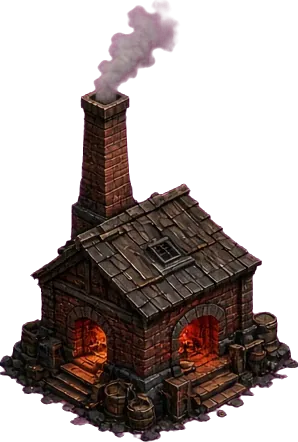
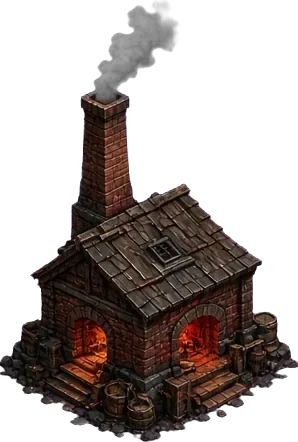
Barut Çağı art 2: şehir katmanı anında (önbellek), kale/savaş eğitimi (11 dil), siege.js tembel + img/sg silindi, beceri cut-in, h1–h12 portreler, dökümhane duman rengi (sw sf-b39-3-art)

Changed region(s): [[0.302, 0.0, 0.5738, 0.2353], [0.2416, 0.9412, 0.302, 0.9706]]

diff --git a/game.js b/game.js
@@ -3,7 +3,7 @@ import * as THREE from './lib/three.module.js';
 import * as L from './logic.js';
 import {t as tx,tl,lang,LANGS,setLang,localizeData,applyDom,locale,RTL} from './i18n.js';
 import {openGuide} from './guide.js';
-import {playSiege} from './siege.js';
+const playSiege=o=>import('./siege.js').then(m=>m.playSiege(o));
 import {openWorld as openWorldView} from './world.js';
 localizeData(L);applyDom();for(const id of ['bClan','bChat']){const e=document.getElementById(id);if(!e)continue;const m=e.textContent.trim().match(/^([\p{Extended_Pictographic}\uFE0F\u200D]+)\s*(.+)$/u);if(m){e.title=m[2];e.innerHTML=m[1]+'<span class="lb"> '+m[2]+'</span>'}}const LV=tx('ui.lv'),DEC=(1.5).toLocaleString(locale)[1];
 const {KINDS,RIC,TROOPS,HEROES,TECH,FOES,RARITY,GR}=L;
@@ -521,7 +521,7 @@ function openWork(){sheet(()=>{let h=hdr(tx('ui.isci_atamasi'))+`<div class="car
  const ks=Object.keys(S.g).filter(k=>L.hasJob(S.g[k].k)).sort((a,b)=>S.g[a].k.localeCompare(S.g[b].k));
  for(const k of ks){const b=S.g[k],T=KINDS[b.k];const[i,j]=L.unkey(k);h+=`<div class="card" ${b.fog?'style="opacity:.5"':''}><div class="ic">${T.ic}</div><div class="mid"><div class="nm">${T.n} ${LV}${b.lv} · ${L.JOB[b.k]} ${b.w||0}/${L.maxW(b.lv)}</div><div class="sub">${b.fog?tx('ui.sisli'):T.res?L.rate(S,k).toFixed(1).replace('.',DEC)+' '+RIC[T.res]+'/dk':tx('ui.egitim')+((b.w||0)*25)+'%'}</div></div><button class="btn sm r" data-a="w" data-v="${i}:${j}:-1">−</button><button class="btn sm" data-a="w" data-v="${i}:${j}:1">+</button></div>`}
  return h})}
-const port=(h,st,big)=>`<div class="port r${h.r}" style="${big?'width:84px;height:84px':''}"><img src="img/cap_${h.img}.webp" loading="lazy" alt="${h.n}">${st?`<b class="lv">${st.lv||1}</b>`:''}<small>${'★'.repeat(st?st.star:0)}</small></div>`;
+const port=(h,st,big)=>`<div class="port r${h.r}" style="${big?'width:84px;height:84px':''}"><img src="${big?hPic(h.img):'img/cap_'+h.img+'.webp'}" loading="lazy" alt="${h.n}">${st?`<b class="lv">${st.lv||1}</b>`:''}<small>${'★'.repeat(st?st.star:0)}</small></div>`;
 // kaptan kırmızı noktası: çubuktaki nokta ile sayfa içi işaretler aynı nedenlerden hesaplanır
 function heroLvQ(){const q=L.QUESTS[S.q];return q&&q.go==='heroes'&&/Sv\d/.test(q.t)&&q.f(S)<q.n?q.n:0}
 function heroBest(){const ids=Object.keys(S.heroes);if(!ids.length)return null;const tm=L.team(S).map(h=>h.id);return ids.filter(id=>S.heroes[id].lv<L.heroCap(S.heroes[id])).sort((a,b)=>S.heroes[b].lv-S.heroes[a].lv||tm.indexOf(b)-tm.indexOf(a))[0]||null}
@@ -644,13 +644,13 @@ function goIsland(id){if(resErr(L.switchIsland(S,id)))return;closeSheet();for(co
 // ---------- SAVAŞ ----------
 function pveCheck(kind,stage,rw,prog){const O=window.__online;if(!O||!O.on||!O.pve)return;O.pve(kind,stage).then(r=>{if(!r||r.ok)return;
    const neg={};for(const k in rw)neg[k]=-rw[k];L.addRes(S,neg);for(const k in S.res)S.res[k]=Math.max(0,S.res[k]);S.gems=Math.max(0,S.gems);S.tickets=Math.max(0,S.tickets||0);if(typeof prog==='function')prog();else if(prog&&S.stage>1)S.stage--;ui();save();toast('⚠ '+tx('ui.pve_rej')+' '+tl(r.err||''))}).catch(()=>{})}
-function battle(stage,camp,cv){closeSheet();const res=cv?cv.res:L.simulate(S,stage,Math.random);const B=cv?(cv.foe||{n:tx('ui.cv_foe'),img:'pirate'}):FOES[L.stageFoe(stage)];const tm=L.team(S);const bt=$('battle');
+function battle(stage,camp,cv){closeSheet();if(window.__art2d&&S.tut===5)S.tut=6;const res=cv?cv.res:L.simulate(S,stage,Math.random);const B=cv?(cv.foe||{n:tx('ui.cv_foe'),img:'pirate'}):FOES[L.stageFoe(stage)];const tm=L.team(S);const bt=$('battle');
  const icons=Object.entries(S.troops).flatMap(([t,n])=>Array(Math.min(4,Math.ceil(n/10))).fill(TROOPS[t].ic));
  const ttl=cv?(cv.ttl||'🏴☠ '+tx('ui.cv_t')):'⛵ '+tx('ui.isl_n',[stage,L.islandName(stage)]);
  bt.innerHTML=bsHtml(ttl,B,fmt(cv?(cv.pw||L.convoyPower(S)):L.stagePower(stage)),tm);
  bt.classList.toggle('reefB',!!(cv&&cv.reef));bt.classList.add('on');SFX.horn();setTimeout(SFX.roar,500);
  battleScene(bt,res,B,tm,icons,()=>finish());
- function finish(){if(cv)return cvFinish();const st0=S.stage,out=L.applyBattle(S,res,stage,now());if(out.rw)pveCheck('stage',stage,out.rw,S.stage>st0);ui();save();syncPeople();const lost=Object.entries(out.lost).filter(([t,n])=>n).map(([t,n])=>`${TROOPS[t].ic}${n}`).join(' ');
+ function finish(){if(S.tut===6)setTimeout(tutCheck,600);if(cv)return cvFinish();const st0=S.stage,out=L.applyBattle(S,res,stage,now());if(out.rw)pveCheck('stage',stage,out.rw,S.stage>st0);ui();save();syncPeople();const lost=Object.entries(out.lost).filter(([t,n])=>n).map(([t,n])=>`${TROOPS[t].ic}${n}`).join(' ');
   if(res.win){SFX.done();vib([30,40,60]);if(camp)camp.g.userData.vis=false,setTimeout(()=>camp.g.userData.vis=true,90000);for(let k=0;k<Math.min(out.saved,3);k++)setTimeout(()=>sendRaft(true),k*700)}else SFX.err();
   modal(starsH(res)+(res.win?`<div style="font-size:54px">🏝</div><h2>${tx('ui.ada_sisten_kurtuldu')}</h2><p>${tx('ui.loot')}<br><b>${costStr(out.rw)}</b>${out.saved?`<br>${tx('ui.kurtulan_filona_katildi',[out.saved])}`:''}${lost?`<br><span class="sub">${tx('ui.yarali')} `+lost+'</span>':''}</p>`:`<div style="font-size:54px">🌫</div><h2>${tx('ui.sis_galip_geldi')}</h2><p>${tx('ui.yaratiklar_cok_gucluydu_daha')}${lost?`<br><span class="sub">${tx('ui.kayip')} `+lost+'</span>':''}</p>`),[[tx('ui.devam'),res.win?'o':'x',()=>{bt.classList.remove('on');tutCheck()}]])}
  function cvFinish(){ui();save();syncPeople();const lost=Object.entries(cv.lost).filter(([t,n])=>n).map(([t,n])=>`${TROOPS[t].ic}${n}`).join(' ');if(res.win){SFX.done();vib([30,40,60]);cam.shake=.15}else SFX.err();
@@ -658,7 +658,9 @@ function battle(stage,camp,cv){closeSheet();const res=cv?cv.res:L.simulate(S,sta
 
 // ---------- Savaş sahnesi (2.5D canvas; yalnızca sunum — sonuç L.simulate/sunucudan gelir, değişmez) ----------
 function starsH(r){const n=r.win?(r.hp0>.66?3:r.hp0>.33?2:1):0;return `<div class="stars">${[0,1,2].map(k=>`<b class="${k<n?'on':''}" style="animation-delay:${k*.18}s">★</b>`).join('')}</div>`}
-const _imgC={};function cimg(src){if(!_imgC[src]){const i=new Image();i.src=src;_imgC[src]=i}return _imgC[src]}
+const _imgC={};const HCROP={yusuf:1,kaan:3,tunc:4,deniz:11,ali:10,baris:9,mei:2,ela:8},RIV=[5,6,7,12];const hPic=im=>HCROP[im]?'img/a/h'+HCROP[im]+'.webp':'img/cap_'+im+'.webp';
+function cutIn(bt,src,txt,foe){if(matchMedia('(prefers-reduced-motion: reduce)').matches)return;const d=document.createElement('div');d.className='cutin'+(foe?' foe':'');d.innerHTML=`<img src="${src}" alt=""><b></b>`;d.lastChild.textContent=txt;bt.appendChild(d);setTimeout(()=>d.remove(),1300)}
+function cimg(src){if(!_imgC[src]){const i=new Image();i.src=src;_imgC[src]=i}return _imgC[src]}
 const TI={};for(const t in TROOPS)TI[TROOPS[t].ic]=t;
 // birlik görünümleri: abordajcı (yakın), zıpkıncı (menzilli), topçu (kuşatma) — yalnızca sunum
 const TSP={tayfa:'pike',zipkin:'musk',topcu:'art'};function tSprite(ty){const tr=+(window.__online?.city?.state?.()?.tier?.[ty]||1),b=tr>=4?3:tr>=2?2:1;return cimg('img/a/t_'+(TSP[ty]||'pike')+b+'.webp')}
@@ -681,16 +683,17 @@ function troopDraw(x,ty,s,T,RM){{const im=tSprite(ty);if(im.complete&&im.natural
 function battleScene(bt,res,B,tm,icons,done){const RM=matchMedia('(prefers-reduced-motion: reduce)').matches;const cv=$('bsc'),x=cv.getContext('2d'),dpr=Math.min(1.5,devicePixelRatio||1);let W=0,H=0;
  const rs=()=>{const r=cv.getBoundingClientRect();W=r.width;H=r.height;cv.width=W*dpr;cv.height=H*dpr};rs();
  const last=res.rounds[res.rounds.length-1]||{hp:res.myMax,eHp:res.eMax};res.hp0=res.myMax?last.hp/res.myMax:0;
- const bgI=cimg('img/a/battle_bg.webp'),eSp=[cimg('img/a/t_musk1.webp'),cimg('img/a/t_pike1.webp')],boss=cimg('img/f_'+B.img+'.webp'),hs=tm.map(h=>({h,im:cimg('img/cap_'+h.img+'.webp')}));
+ const bgI=cimg('img/a/battle_bg.webp'),eSp=[cimg('img/a/t_musk1.webp'),cimg('img/a/t_pike1.webp')],boss=cimg('img/f_'+B.img+'.webp'),hs=tm.map(h=>({h,im:cimg(hPic(h.img))}));
  const my=[];hs.forEach((o,k)=>my.push({t:'h',o,k}));my.push({t:'s'});icons.slice(0,9).forEach(ic=>my.push({t:'u',ic}));my.push({t:'s'});
  const KD={ghost:'gh',octo:'tn',kraken:'tn',crab:'cr',reef:'co'}[B.img]||'pi';const nE=res.boss?4:Math.min(5,2+Math.floor(res.eMax/2000));const en=[{t:'b'}];for(let k=0;k<nE;k++)en.push({t:'m',kd:KD});
  const BG=[];for(let k=0;k<6;k++)BG.push({x:Math.random(),y:.03+Math.random()*.07,w:.08+Math.random()*.12,isl:k%3===0});const SM=[],EP=[];
  const lay=(arr,row)=>arr.forEach((u,k)=>{const n=arr.length,c=(k-(n-1)/2);u.bx=.5+c*(row?.11:.13)*(row?1:Math.min(1,6/n));u.by=row?.8+((k%2)*.05):(u.t==='b'?.2:.28+(k%2)*.05);u.die=row?(k+1)/(n+1)*.9:(k/(n+1));u.ph=Math.random()*6});
  lay(my,1);lay(en,0);en[0].bx=.5;en[0].die=0;
  let spd=1,skip=false,t0=performance.now(),ri=0,rt=0,mHp=1,eHp=1,mS=1,eS=1,shake=0,fl=0,sk=null;const P=[],F=[];
+ if(!B.boss&&!res.boss)setTimeout(()=>cutIn(bt,'img/a/h'+RIV[Math.abs((B.n||'').length)%4]+'.webp',B.n||'',1),200);
  const SKC=hs.map(()=>({v:0,at:0})),pEl=[...bt.querySelectorAll('.bpf.me .port')];
  function skUI(){pEl.forEach((p,k)=>{const c=SKC[k];if(!c)return;p.style.setProperty('--chg',(c.v*100|0)+'%');p.classList.toggle('skr',c.v>=1)})}
- function fire(k,auto){const c=SKC[k];if(!c||c.v<1||ended)return;c.v=0;const o=hs[k],pB=en[0];sk={o,l:1};fl=RM?0:1;shake=RM?0:10;sp(pB.x,pB.y,'#9be7ff',34,true);ft(W*.5,H*.42,tx('ui.skill_fire',[o.h.n||'']),'#9be7ff');SFX.light&&SFX.light();vib([15,30,25]);skUI();
+ function fire(k,auto){const c=SKC[k];if(!c||c.v<1||ended)return;c.v=0;const o=hs[k],pB=en[0];sk={o,l:1};fl=RM?0:1;shake=RM?0:10;sp(pB.x,pB.y,'#9be7ff',34,true);cutIn(bt,hPic(o.h.img),tx('ui.skill_fire',[o.h.n||'']));SFX.light&&SFX.light();vib([15,30,25]);skUI();
   const ev={type:'skill',hero:o.h.id,k,auto:!!auto,round:ri};(window.__bev=window.__bev||[]).forEach(f=>{try{f(ev)}catch(e){}});if(res.onSkill)res.onSkill(ev)}
  pEl.forEach((p,k)=>{if(!SKC[k])return;p.classList.add('skb');p.insertAdjacentHTML('beforeend','<i class="chg"></i>');p.onclick=e=>{e.stopPropagation();fire(k)}});skUI();
  const bS=$('bSpd'),bK=$('bSkip');bS.onclick=()=>{spd=spd===1?2:1;bS.textContent='▶ x'+spd};bK.onclick=()=>{skip=true};
@@ -741,8 +744,8 @@ function battleScene(bt,res,B,tm,icons,done){const RM=matchMedia('(prefers-reduc
  addEventListener('resize',rs,{once:true});draw.raf=requestAnimationFrame(draw)}
 // ---------- HUD ----------
 {const qe=document.getElementById('quest');if(localStorage.getItem('sf_qmin')!=='0')qe.classList.add('qmin');qe.addEventListener('click',e=>{if(e.target.id==='qtg'){e.stopPropagation();e.preventDefault();const m=qe.classList.toggle('qmin');localStorage.setItem('sf_qmin',m?'1':'0')}},true)}
-function warGo(){SFX.tap();vib(15);const tr=Object.values(S.troops).reduce((a,b)=>a+b,0);const fight=()=>{if(tr+Object.keys(S.heroes).length&&S.cur==='home')battle(S.stage);else openMap()};const O=window.__online;if(O&&O.open&&O.open.world){O.open.world();if(O.on)openWorldView({S,tx,SFX,toast,fight,after:()=>window.__g.renderSheet&&renderSheet()});return}fight()}
-function ui(){{const wb=$('warBtn');if(wb){wb.style.display=S.tut>=9&&!document.body.classList.contains('intro')?'':'none';if(!wb.onclick)wb.onclick=warGo;const pw=L.armyPower(S),nd=L.stagePower(S.stage);wb.classList.toggle('rdy',pw>=nd*.9);$('warT').textContent=tx('ui.war_btn');$('warSt').textContent=tx('ui.isl_n',[S.stage,L.islandName(S.stage)])}}for(const r of L.RES)$('r_'+r).textContent=fmt(S.res[r]);$('r_gems').textContent=fmt(S.gems);$('flv').textContent=S.fener.lv;$('pow').textContent=fmt(L.armyPower(S));
+function warGo(){SFX.tap();vib(15);if(window.__art2d&&S.tut===5){battle(S.stage);return}const tr=Object.values(S.troops).reduce((a,b)=>a+b,0);const fight=()=>{if(tr+Object.keys(S.heroes).length&&S.cur==='home')battle(S.stage);else openMap()};const O=window.__online;if(O&&O.open&&O.open.world){O.open.world();if(O.on)openWorldView({S,tx,SFX,toast,fight,after:()=>window.__g.renderSheet&&renderSheet()});return}fight()}
+function ui(){{const wb=$('warBtn');if(wb){wb.style.display=(S.tut>=9||(window.__art2d&&S.tut===5))&&!document.body.classList.contains('intro')?'':'none';if(!wb.onclick)wb.onclick=warGo;const pw=L.armyPower(S),nd=L.stagePower(S.stage);wb.classList.toggle('rdy',pw>=nd*.9);$('warT').textContent=tx('ui.war_btn');$('warSt').textContent=tx('ui.isl_n',[S.stage,L.islandName(S.stage)])}}for(const r of L.RES)$('r_'+r).textContent=fmt(S.res[r]);$('r_gems').textContent=fmt(S.gems);$('flv').textContent=S.fener.lv;$('pow').textContent=fmt(L.armyPower(S));
  const t=now(),nt=L.night(S,t),ni=L.nightIn(S,t);$('nval').textContent=nt?tx('ui.sis_gecesi'):L.lit(S)?tx('ui.fener_yaniyor'):tx('ui.fener_sonuk');
  $('nsub').textContent=S.tut<9?tx('ui.egitim_2'):nt?`${tx('ui.bitise',[fmtT(-ni)])}`:`${tx('ui.sis_gecesine',[fmtT(ni),L.nightNeed(S)])}`;$('night').className=nt?'storm':L.lit(S)?'':'dark';
  {const id=L.idle(S),h=`${S.surv}/${L.cap(S)}`+(id>0?`<b class="idle" title="${tx('ui.bosta_2',[id])}">${id}</b>`:'');if($('surv').dataset.h!==h){$('surv').innerHTML=h;$('surv').dataset.h=h}}$('bld').textContent=`${L.busyBuilders(S)}/${L.builderCount(S)}`;$('isl').textContent=S.stage-1;
@@ -786,7 +789,7 @@ function tutCheck(){if(S.tut>=9)return;
  if(S.tut===1&&(S.g['1,0']?.w||0)>=2){S.tut=2;closeSheet();S.g['1,0'].stored=Math.max(S.g['1,0'].stored,25)}
  if(S.tut===2&&S.st.collect>=1)S.tut=3;
  if(S.tut===3&&L.count(S,'hut')>=2){S.tut=4;closeSheet()}
- if(S.tut===4&&S.st.merge>=1){S.tut=9;S.t0=now();S.nightN=0;const g={gems:50,ticket:1,wood:150};L.addRes(S,g);save();setTimeout(()=>reward(tx('ui.egitim_tamamlandi'),g,{icon:'🎓',sub:tx('ui.harika_is_bekci_fener'),btn:tx('ui.devam'),cb:()=>talk([tx('ui.aferin_evlat_isik_yaniyor'),tx('ui.sis_her_gece_yoklar'),tx('ui.gorevleri_takip_et_her')])}),700)}
+ if((S.tut===4&&S.st.merge>=1)||S.tut===6){S.tut=9;S.t0=now();S.nightN=0;const g={gems:50,ticket:1,wood:150};L.addRes(S,g);save();setTimeout(()=>reward(tx('ui.egitim_tamamlandi'),g,{icon:'🎓',sub:tx('ui.harika_is_bekci_fener'),btn:tx('ui.devam'),cb:()=>talk([tx('ui.aferin_evlat_isik_yaniyor'),tx('ui.sis_her_gece_yoklar'),tx('ui.gorevleri_takip_et_her')])}),700)}
  while(S.tut<9||S.q<4){const q=L.QUESTS[S.q];if(!q||q.f(S)<q.n||S.q>=4)break;claimQuest(true)}}
 // ---------- GÖREV REHBERİ (eğitim sonrası "Göster") ----------
 let guide=null;const guideAt=(o,txt)=>{guide={...o,txt,q:S.q,until:performance.now()+8000}};
@@ -815,7 +818,8 @@ function guideFrame(T){const g=guide;if(!g||g.q!==S.q||performance.now()>g.until
  if(pos){hand.style.display='block';hand.style.left=pos.x+'px';hand.style.top=pos.y+'px'}else hand.style.display='none'}
 function tutFrame(T){if(S.tut>=9)return guideFrame(T);if($('modal').classList.contains('on')||$('talk').classList.contains('on')||$('battle').classList.contains('on')){hand.style.display=tip.style.display='none';return}
  const so=$('sheet').classList.contains('on');let txt='',pos=null,el=null;
- if(S.tut===0){txt=tx('ui.fenere_dokun_ve_isigi');el=so&&$('lightBtn');if(!so)pos=scr(new THREE.Vector3(0,1.4,0))}
+ if(window.__art2d&&(S.tut===0||S.tut===5)){if(so){hand.style.display=tip.style.display='none';return}if(S.tut===0){txt=tx('ui.tut_fort');el=document.querySelector('#city2d .bd[data-k=kale]')}else{txt=tx('ui.tut_war');el=$('warBtn')}}
+ else if(S.tut===0){txt=tx('ui.fenere_dokun_ve_isigi');el=so&&$('lightBtn');if(!so)pos=scr(new THREE.Vector3(0,1.4,0))}
  else if(S.tut===1){txt=`${tx('ui.kristal_madenine_2_madenci',[S.g['1,0']?.w||0])}`;el=so&&$('wplus');if(!so)pos=tileScr('1,0',.5)}
  else if(S.tut===2){txt=tx('ui.baloncuga_dokun_kristali_topla');if(!so)pos=tileScr('1,0',1.3)}
  else if(S.tut===3){txt=tx('ui.bos_bir_karoya_dokun');el=so&&$('bk_hut');if(!so)pos=tileScr(TUT_TILE,.1)}
@@ -996,7 +1000,7 @@ const fx7=(()=>{const gal=new THREE.Group(),lan=[];
   if(fl_>0){fl_=Math.max(0,fl_-dt*2.6);const fk=fl_*(Math.sin(T*55)>0?1:.55);hemi.intensity+=fk*3.2;ov.style.opacity=RM?0:(fl_*.5).toFixed(3);bm.opacity=Math.min(1,fl_*1.6)}else if(bm.opacity){bm.opacity=0;ov.style.opacity=0}
   window.__strike=strike;
   const th=beam.rotation.y;spots.forEach((m,i)=>{const s=i?-1:1;m.visible=on;m.position.set(Math.cos(th)*9.5*s,.02,-Math.sin(th)*9.5*s);sm.opacity=.07+vN*.15+Math.sin(T*4)*.03})}})();
-window.__g={get S(){return S},toast,openEvent,mHint,ushArena:()=>{if(!L.ushArena(S,Date.now())){toast('+1 ✨ '+tx('ui.ush_arena'));ui();save()}},sheet,modal,toast,hdr,closeSheet,renderSheet,fmt,fmtT,rwStr,SFX,KEY,L,save,syncAll,syncPeople,ui,battle,openB,openFener,openShop,openHeroes,openWork,openMap,tileScr,lostScr:()=>LOST.on?scr(LOST.g.position.clone().setY(.6)):null,scr:v=>scr(new THREE.Vector3(...v)),cam,sendRaft,goIsland,openPass,openBoss,openLogin,openSettings,openClan,openIslands,openHero,openTasks,talk,bossFight,levelUp,reward,get FIT(){return FIT}};
+window.__g={get S(){return S},tx,artTut:k=>{if(S.tut===0&&k==='kale'){S.tut=5;ui();save()}},toast,openEvent,mHint,ushArena:()=>{if(!L.ushArena(S,Date.now())){toast('+1 ✨ '+tx('ui.ush_arena'));ui();save()}},sheet,modal,toast,hdr,closeSheet,renderSheet,fmt,fmtT,rwStr,SFX,KEY,L,save,syncAll,syncPeople,ui,battle,openB,openFener,openShop,openHeroes,openWork,openMap,tileScr,lostScr:()=>LOST.on?scr(LOST.g.position.clone().setY(.6)):null,scr:v=>scr(new THREE.Vector3(...v)),cam,sendRaft,goIsland,openPass,openBoss,openLogin,openSettings,openClan,openIslands,openHero,openTasks,talk,bossFight,levelUp,reward,get FIT(){return FIT}};
 
 // çevrimiçi katman (Supabase) — yüklenemezse oyun çevrimdışı devam eder
 // PWA: servis çalışanı + ana ekrana ekle
@@ -1005,4 +1009,4 @@ function instBtn(){if(standalone||localStorage.getItem('sf_instNo')==='1')return
 addEventListener('beforeinstallprompt',e=>{e.preventDefault();instEv=e;instBtn()});addEventListener('appinstalled',()=>$('sInst')?.remove());
 if(isIOS&&!standalone)setTimeout(instBtn,1500);
 if('serviceWorker' in navigator&&(location.protocol==='https:'||location.hostname==='localhost')){navigator.serviceWorker?.register('sw.js',{updateViaCache:'none'}).then(r=>{r.update?.();setInterval(()=>r.update().catch(()=>{}),30*60e3)}).catch(e=>console.warn('sw',e));let had=!!navigator.serviceWorker?.controller;navigator.serviceWorker?.addEventListener('controllerchange',()=>{if(had)toast('🔄 '+tx('ui.updated'));had=true})}
-import('./online.js').then(m=>m.start(window.__g)).then(()=>import('./art.js')).then(a=>a.start()).catch(e=>console.warn('çevrimdışı mod',e));
+import('./art.js').then(a=>a.start()).catch(e=>console.warn('art',e));import('./online.js').then(m=>m.start(window.__g)).catch(e=>console.warn('çevrimdışı mod',e));

diff --git a/art.js b/art.js
@@ -1,8 +1,8 @@
 // Barut Çağı painted city layer (2D sprites over the 3D canvas)
-const P={ambar:[32,29,14],zkule:[68,29,14],kisla:[27,35,20],akademi:[73,35,20],kale:[50,46,32],dokum:[24,57,18],tezgah:[50,62,20],revir:[76,57,18],sur:[50,74,28]};
+const P={ambar:[33,26,13],zkule:[67,26,13],kisla:[24,38,20],akademi:[76,38,20],kale:[50,46,32],dokum:[24,57,18],tezgah:[50,62,20],revir:[76,57,18],sur:[50,74,28]};
 const band=l=>l>=20?3:l>=10?2:1;
 export function start(){
-  const on=window.__online;if(!on||!on.city||document.getElementById('city2d'))return;
+  if(document.getElementById('city2d'))return;const KEYS=Object.keys(P),DEF={kale:1,kisla:1,sur:1,ambar:1};let on=null;
   const st=document.createElement('style');st.textContent=`#city2d{position:fixed;inset:0;z-index:2;overflow:hidden;background:#1a120c;touch-action:manipulation}
 #city2d .bg{position:absolute;left:50%;top:50%;transform:translate(-50%,-50%);width:max(100vw,calc(100vh*.5625));aspect-ratio:9/16;background:url(img/a/city_bg.webp) center/cover}
 #city2d .bd{position:absolute;transform:translate(-50%,-78%);cursor:pointer;-webkit-tap-highlight-color:transparent;filter:drop-shadow(0 6px 6px #000a)}
@@ -14,11 +14,11 @@ body.intro #city2d{display:none}`;document.head.appendChild(st);
   const L=document.createElement('div');L.id='city2d';L.innerHTML='<div class="bg"></div>';const bg=L.firstChild;
   const c=document.getElementById('c');c.after(L);window.__art2d=true;
   const E={};
-  for(const k of on.city.keys){const p=P[k];if(!p)continue;const d=document.createElement('div');d.className='bd';d.style.cssText=`left:${p[0]}%;top:${p[1]}%;width:${p[2]}%`;d.innerHTML=`<img alt="" loading="lazy" decoding="async"><div class="lb"></div>`;d.onclick=()=>on.city.focus?on.city.focus(k):on.city.open();bg.appendChild(d);E[k]=d}
-  const tr=k=>on.city.name?on.city.name(k):k;
+  for(const k of KEYS){const p=P[k];if(!p)continue;const d=document.createElement('div');d.className='bd';d.dataset.k=k;d.style.cssText=`left:${p[0]}%;top:${p[1]}%;width:${p[2]}%;z-index:${p[1]|0}`;d.innerHTML=`<img alt="" loading="lazy" decoding="async"><div class="lb"></div>`;d.onclick=()=>{try{window.__g?.artTut?.(k)}catch(e){}if(on&&on.city)on.city.focus?on.city.focus(k):on.city.open()};bg.appendChild(d);E[k]=d}
+  const tr=k=>on&&on.city&&on.city.name?on.city.name(k):(window.__g?.tx?window.__g.tx('o.c_b_'+k):'');let cache=null;try{cache=JSON.parse(localStorage.getItem('sf_city2d')||'null')}catch(e){}
   const fm=s=>{s=Math.max(0,s|0);const h=s/3600|0,m=(s%3600)/60|0;return h?h+'h'+m+'m':m+'m'+(s%60)+'s'};
-  function draw(){const s=on.city.state&&on.city.state();const B={};((s&&s.list)||[]).forEach(b=>B[b.key]=b);const now=Date.now();
+  function draw(){const s=on&&on.city&&on.city.state();const B={};if(s&&s.list){s.list.forEach(b=>B[b.key]={lvl:b.lvl,until:b.until});const j=JSON.stringify(B);if(j!==draw.j){draw.j=j;try{localStorage.setItem('sf_city2d',j)}catch(e){}}}else if(cache)Object.assign(B,cache);else for(const k in DEF)B[k]={lvl:DEF[k]};const now=Date.now();
     for(const k in E){const b=B[k]||{};const l=+(b.lvl||0);const d=E[k],im=d.firstChild;const src=`img/a/b_${k}${band(l)}.webp`;if(!im.src.endsWith(src))im.src=src;d.classList.toggle('l0',!l);
       const end=b.until?new Date(b.until).getTime():0;d.lastChild.innerHTML=`${tr(k)}<b>${l}</b>`+(end>now?`<span class="tm">🔨 ${fm((end-now)/1000)}</span>`:'')}}
-  if(!on.city.state())on.city.sync().then(draw).catch(()=>{});draw();if(on.city.on)on.city.on(draw);setInterval(draw,1000);
+  draw();const att=()=>{const o=window.__online;if(!o||!o.city||!o.uid)return false;on=o;if(!on.city.state())on.city.sync().then(draw).catch(()=>{});if(on.city.on)on.city.on(draw);draw();return true};const iv=setInterval(()=>{if(!on)att();draw()},1000);
 }

diff --git a/index.html b/index.html
@@ -254,6 +254,13 @@ body.intro #warBtn{display:none!important}
 .port.skb{position:relative;cursor:pointer}.port .chg{position:absolute;inset:-4px;border-radius:inherit;pointer-events:none;background:conic-gradient(#9be7ff var(--chg,0%),#0000 0);-webkit-mask:radial-gradient(closest-side,#0000 calc(100% - 4px),#000 calc(100% - 3px));mask:radial-gradient(closest-side,#0000 calc(100% - 4px),#000 calc(100% - 3px));border-radius:50%}
 .port.skr{animation:skR .7s ease-in-out infinite;box-shadow:0 0 14px #9be7ff}.port.skr::after{content:'⚡';position:absolute;top:-10px;right:-6px;font-size:16px;filter:drop-shadow(0 0 4px #9be7ff)}@keyframes skR{50%{transform:scale(1.1)}}
 @media (prefers-reduced-motion:reduce){#warBtn.rdy,.port.skr{animation:none}}
+#battle .cutin{position:absolute;left:0;right:0;top:34%;height:96px;z-index:20;pointer-events:none;display:flex;align-items:center;gap:10px;padding-left:12px;background:linear-gradient(90deg,#000d,#5a1a08cc 55%,#0000);border-top:2px solid #ffb347;border-bottom:2px solid #ffb347;animation:cutin 1.3s ease-out forwards}
+#battle .cutin img{width:92px;height:92px;border-radius:10px;border:2px solid #ffd27a;object-fit:cover;box-shadow:0 0 18px #ff8a2a}
+#battle .cutin b{font:900 20px/1.1 system-ui;color:#fff4d6;text-shadow:0 2px 0 #7a2a00,0 0 12px #ff8a2a;letter-spacing:.5px}
+#battle .cutin.foe{flex-direction:row-reverse;padding:0 12px 0 0;background:linear-gradient(270deg,#000d,#2a0a1acc 55%,#0000);border-color:#c0392b;animation-name:cutinR}
+@keyframes cutin{0%{transform:translateX(-100%);opacity:0}15%{transform:translateX(0);opacity:1}80%{transform:translateX(4%);opacity:1}100%{transform:translateX(30%);opacity:0}}
+@keyframes cutinR{0%{transform:translateX(100%);opacity:0}15%{transform:none;opacity:1}80%{transform:translateX(-4%);opacity:1}100%{transform:translateX(-30%);opacity:0}}
+#battle{background:#140c08!important}
 img.wen{filter:brightness(.6) sepia(.6) hue-rotate(-30deg)}
 #world{position:fixed;inset:0;z-index:60;display:none;background:#2c3a22;touch-action:none}#world.on{display:block}#wcv{display:block;touch-action:none}
 #wtop{position:absolute;top:calc(env(safe-area-inset-top) + 8px);left:8px;right:8px;display:flex;align-items:center;gap:8px;background:linear-gradient(#3a2a1a,#24180c);border:2px solid #c9a24a;border-radius:12px;padding:6px 10px;color:#ffe9a8}#wtop b{font-size:16px}#wtop small{opacity:.7;font-size:11px;flex:1}#wcl{background:#a33;color:#fff;border:0;border-radius:8px;width:32px;height:32px;font-size:16px}

diff --git a/sw.js b/sw.js
@@ -1,5 +1,5 @@
 // Son Fener service worker: kod ağdan önce (no-cache ile ETag doğrulaması), görseller/fontlar önbellekten.
-const VER='sf-b40-1-theme',CORE=['./','index.html','game.js','logic.js','i18n.js','online.js','./guide.js','./world.js','./art.js','./siege.js','lib/three.module.js','lib/supabase.js','manifest.webmanifest','img/icon-192.png','img/title.webp','img/cap_yusuf.webp'];
+const VER='sf-b40-2-art',CORE=['./','index.html','game.js','logic.js','i18n.js','online.js','./guide.js','./world.js','./art.js','lib/three.module.js','lib/supabase.js','manifest.webmanifest','img/icon-192.png','img/title.webp','img/cap_yusuf.webp'];
 self.addEventListener('install',e=>{e.waitUntil(caches.open(VER).then(c=>c.addAll(CORE.map(u=>new Request(u,{cache:'reload'})))).catch(()=>{}));self.skipWaiting()});
 self.addEventListener('activate',e=>{e.waitUntil(caches.keys().then(ks=>Promise.all(ks.filter(k=>k!==VER).map(k=>caches.delete(k)))).then(()=>self.clients.claim()))});
 self.addEventListener('fetch',e=>{const r=e.request,u=new URL(r.url);if(r.method!=='GET'||u.origin!==location.origin)return;
